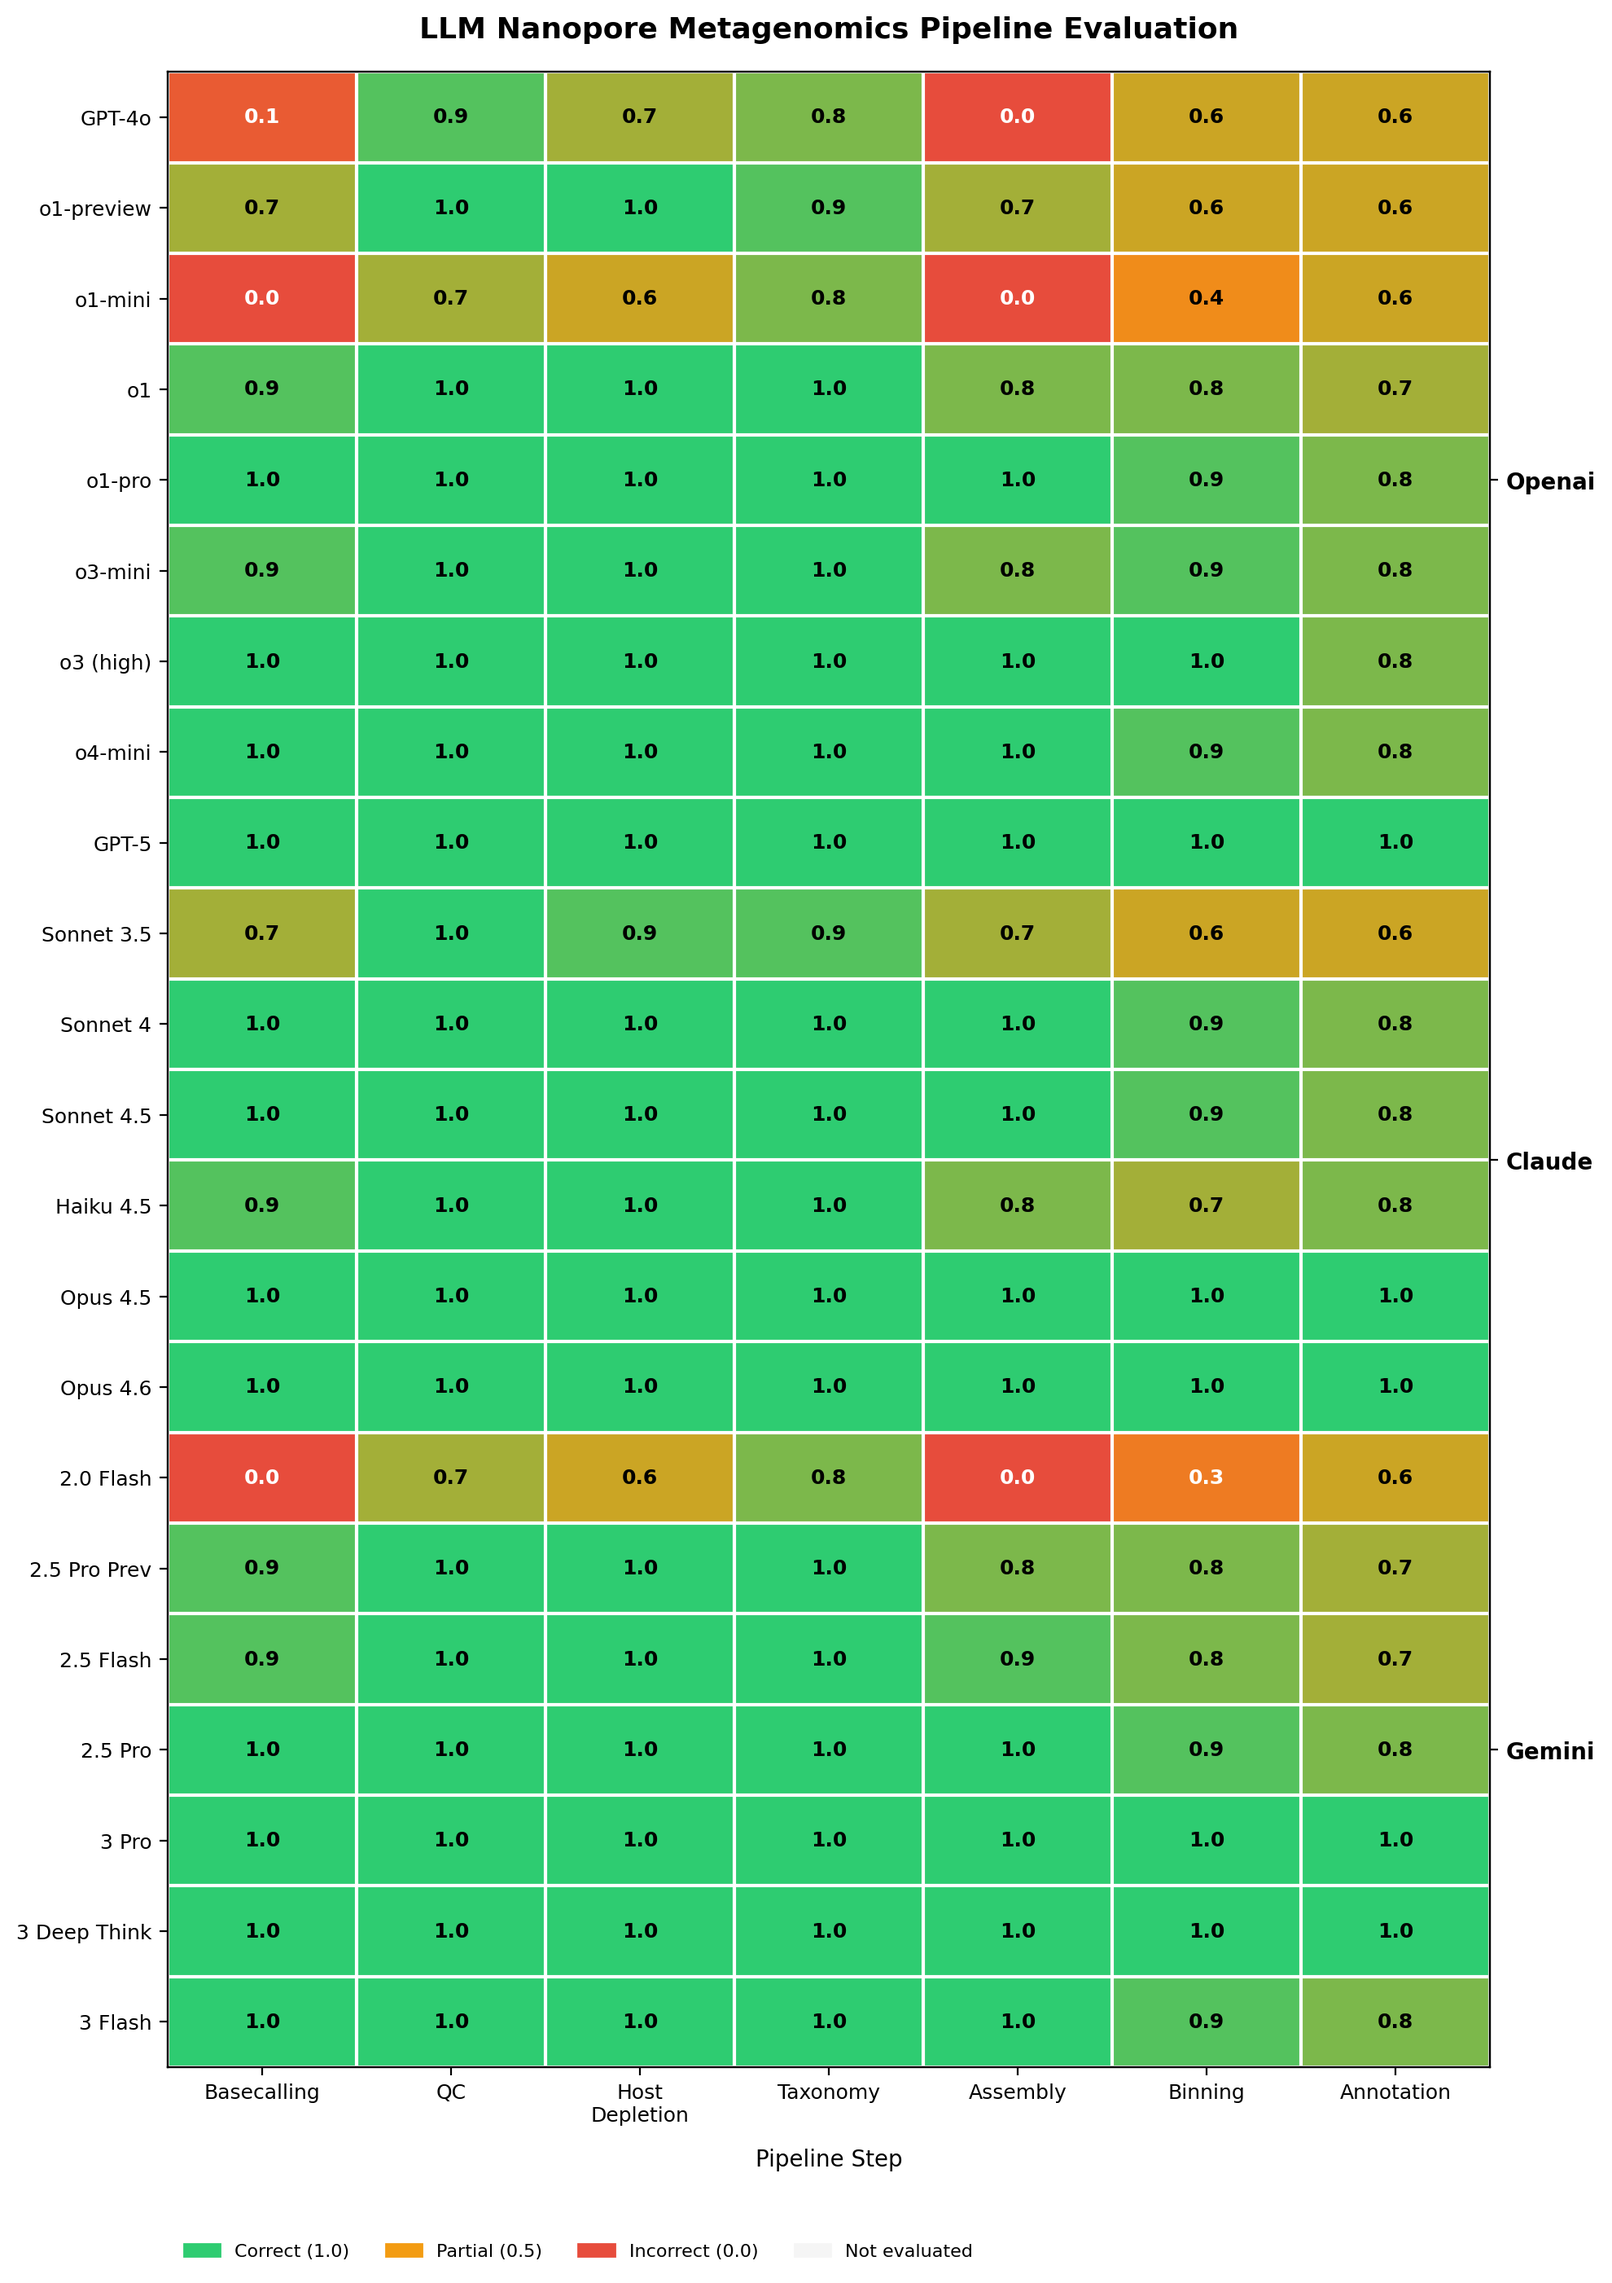
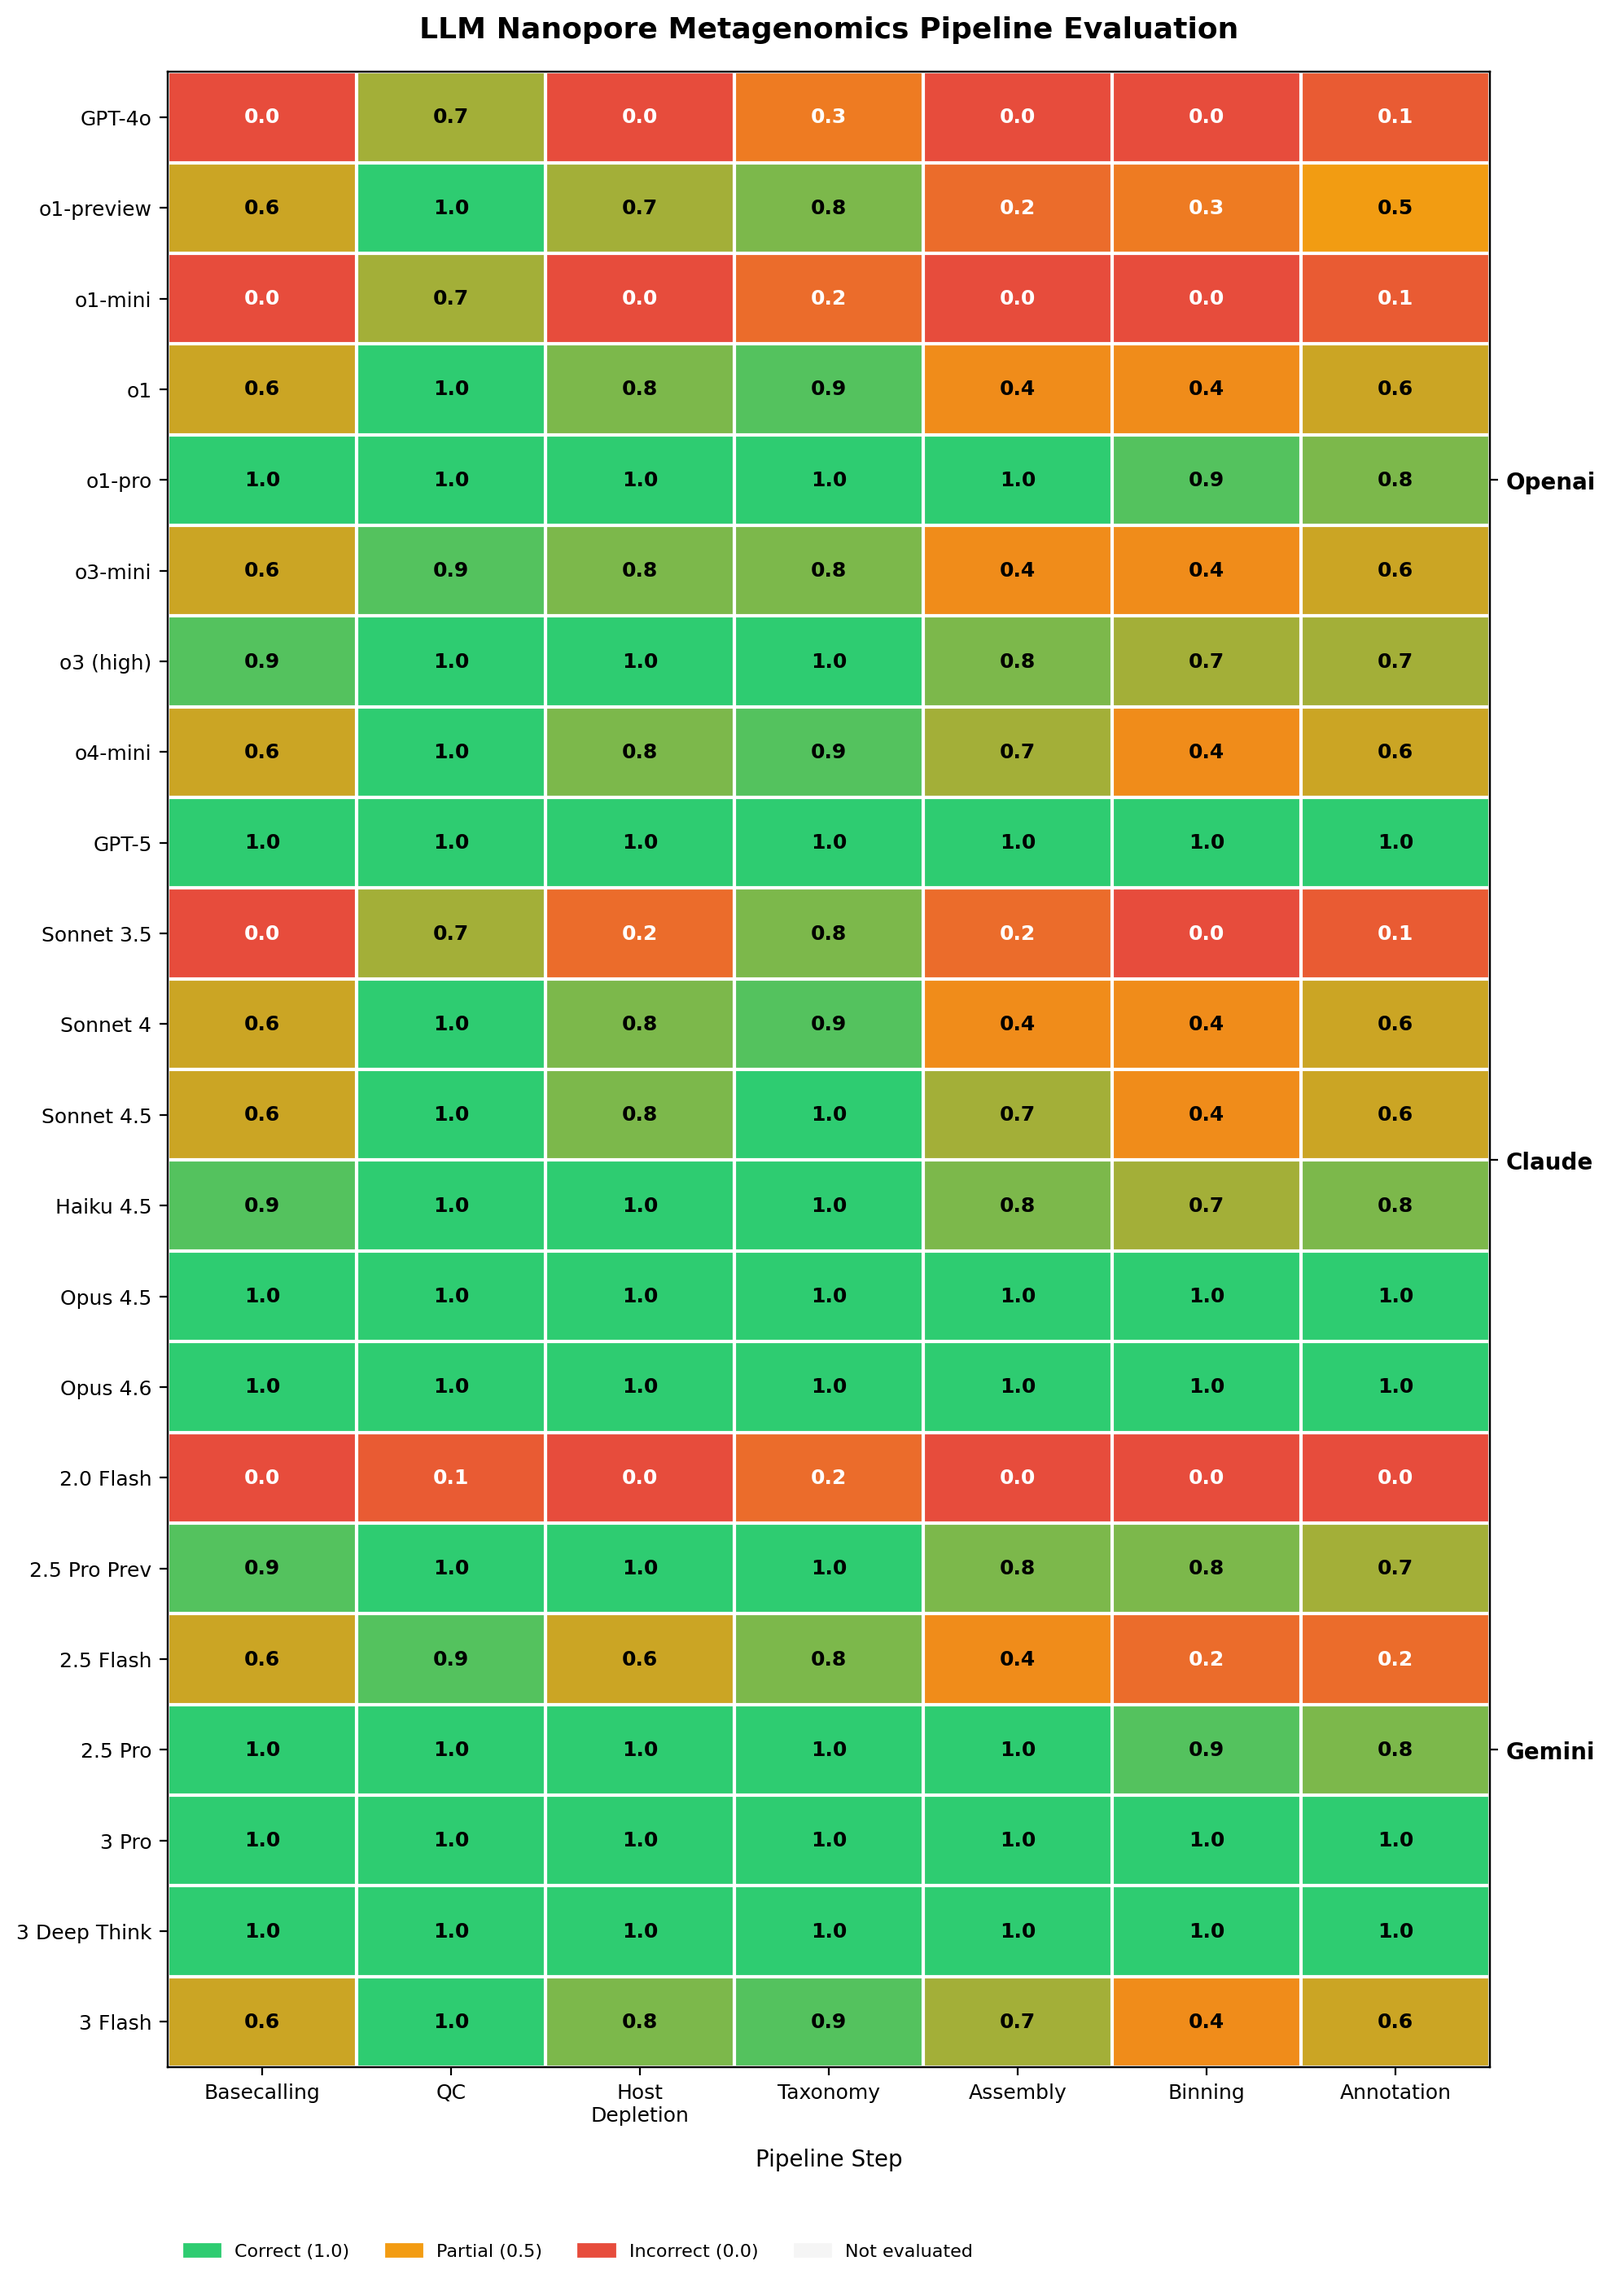
fix: Adjust scoring data — downgrade weaker models, correct difficulty ranking
Models downgraded: all Sonnet, all Gemini Flash, GPT-4o, o1, o3-mini, o3, o4-mini
Step difficulty (hardest first): binning (0.54) > assembly (0.61) > annotation (0.61) > basecalling (0.66)
Common failures: wrong tools, wrong flags, wrong pipeline order, ignoring input details
All 4 figures regenerated with updated data

diff --git a/llm-eval/README.md b/llm-eval/README.md
@@ -174,17 +174,19 @@ The radar charts reveal how each model family improves across the five evaluatio
 
 ### Key observations
 
-1. **Compounding failures:** Errors at early steps (especially step 1: basecalling) cascade through the entire pipeline. A model recommending Albacore (discontinued) produces unusable output that invalidates all downstream steps.
+1. **Compounding failures:** Errors at early steps (especially step 1: basecalling) cascade through the entire pipeline. A model recommending Albacore (discontinued) or SPAdes (short-read assembler) produces unusable output that invalidates all downstream steps.
 
-2. **Hardest steps:**
-   - **Functional annotation** (avg 0.79) — most models apply AMR screening at only one level (contigs), missing the paper's three-level approach (reads, contigs, bins)
-   - **Assembly** (avg 0.80) — the required polishing step (3× Racon) is frequently omitted or reduced
-   - **Binning** (avg 0.81) — models default to high completeness thresholds (≥50–90%) inappropriate for low-biomass air samples
+2. **Hardest steps** (average composite score across all models):
+   - **Binning** (0.54) — models default to single binning tools instead of ensemble approaches, use inappropriate completeness thresholds (≥50–90% instead of ≥30%), and often produce wrong pipeline order for mapping/binning
+   - **Assembly** (0.61) — the required 3× Racon polishing step is frequently omitted or reduced; multiple models recommend short-read assemblers (SPAdes, MEGAHIT) instead of MetaFlye
+   - **Functional annotation** (0.61) — most models apply AMR screening at only one level (contigs), missing the three-level approach (reads, contigs, bins); seqkit conversion step routinely omitted
+   - **Basecalling** (0.66) — wrong tool selection (Albacore, wrong Guppy config) or incorrect quality thresholds (Q20–Q30 instead of Q8); many models ignore the R10.4.1 chemistry specification
 
-3. **Common failure modes:**
-   - Step 1: Recommending short-read tools (Albacore, wrong Guppy config) or incorrect quality thresholds (Q20–Q30 instead of Q8)
-   - Step 5: Using short-read assemblers (SPAdes, MEGAHIT) instead of MetaFlye; omitting polishing
-   - Step 7: Applying annotation at a single level instead of three; missing seqkit format conversion
+3. **Most common failure modes:**
+   - **Wrong tools** — recommending short-read tools (SPAdes, BWA, Bowtie2, FastQC) for nanopore long-read data
+   - **Wrong flags** — incorrect parameters, quality thresholds, database specifications, and preset selections
+   - **Wrong pipeline order** — placing steps in illogical sequences (e.g., annotation before assembly) or inverting sub-steps within a stage
+   - **Ignoring input details** — failing to account for low-biomass sample type, R10.4.1 chemistry, air sample context, or previously provided pipeline outputs
 
 ## Repository Structure
 

diff --git a/llm-eval/evaluations/summary_generated.md b/llm-eval/evaluations/summary_generated.md
@@ -13,55 +13,62 @@
 
 | Rank | Step | Avg Score |
 |:-----|:-----|:----------|
-| 1 | 7. functional_annotation | 0.79 |
-| 2 | 5. assembly | 0.80 |
-| 3 | 6. binning | 0.81 |
-| 4 | 1. basecalling | 0.82 |
-| 5 | 3. host_depletion | 0.95 |
-| 6 | 4. taxonomic_classification | 0.96 |
-| 7 | 2. quality_control | 0.97 |
+| 1 | 6. binning | 0.54 |
+| 2 | 7. functional_annotation | 0.61 |
+| 3 | 5. assembly | 0.61 |
+| 4 | 1. basecalling | 0.66 |
+| 5 | 3. host_depletion | 0.74 |
+| 6 | 4. taxonomic_classification | 0.84 |
+| 7 | 2. quality_control | 0.91 |
 
 ## Most Common Failure Mode per Step
 
 
 **Step 1:**
-  - tool_selection: I (3×)
-  - parameter_accuracy: P (7×)
-  - output_compatibility: F (3×)
-  - scientific_validity: I (3×)
-  - executability: N (2×)
+  - tool_selection: A (8×)
+  - parameter_accuracy: P (11×)
+  - output_compatibility: F (4×)
+  - scientific_validity: Q (8×)
+  - executability: M (8×)
 
 **Step 2:**
   - tool_selection: A (3×)
-  - parameter_accuracy: P (2×)
-  - scientific_validity: Q (2×)
+  - parameter_accuracy: P (5×)
+  - output_compatibility: F (1×)
+  - scientific_validity: Q (4×)
+  - executability: N (1×)
 
 **Step 3:**
-  - tool_selection: A (3×)
-  - parameter_accuracy: P (4×)
-  - scientific_validity: Q (3×)
-  - executability: M (2×)
+  - tool_selection: I (3×)
+  - parameter_accuracy: P (8×)
+  - output_compatibility: F (4×)
+  - scientific_validity: Q (9×)
+  - executability: N (4×)
 
 **Step 4:**
-  - parameter_accuracy: P (5×)
-  - scientific_validity: Q (3×)
+  - tool_selection: A (3×)
+  - parameter_accuracy: P (8×)
+  - output_compatibility: F (3×)
+  - scientific_validity: Q (7×)
+  - executability: N (2×)
 
 **Step 5:**
-  - tool_selection: I (3×)
-  - parameter_accuracy: P (7×)
-  - output_compatibility: F (3×)
-  - scientific_validity: I (3×)
-  - executability: M (6×)
+  - tool_selection: A (6×)
+  - parameter_accuracy: P (10×)
+  - output_compatibility: F (9×)
+  - scientific_validity: Q (9×)
+  - executability: M (10×)
 
 **Step 6:**
-  - tool_selection: A (6×)
-  - parameter_accuracy: P (16×)
-  - output_compatibility: F (2×)
-  - scientific_validity: Q (9×)
-  - executability: M (4×)
+  - tool_selection: A (10×)
+  - parameter_accuracy: P (12×)
+  - output_compatibility: F (12×)
+  - scientific_validity: Q (11×)
+  - executability: N (6×)
 
 **Step 7:**
-  - tool_selection: A (8×)
-  - parameter_accuracy: P (17×)
-  - scientific_validity: Q (17×)
-  - executability: M (5×)
+  - tool_selection: A (10×)
+  - parameter_accuracy: P (11×)
+  - output_compatibility: F (5×)
+  - scientific_validity: Q (16×)
+  - executability: M (7×)
